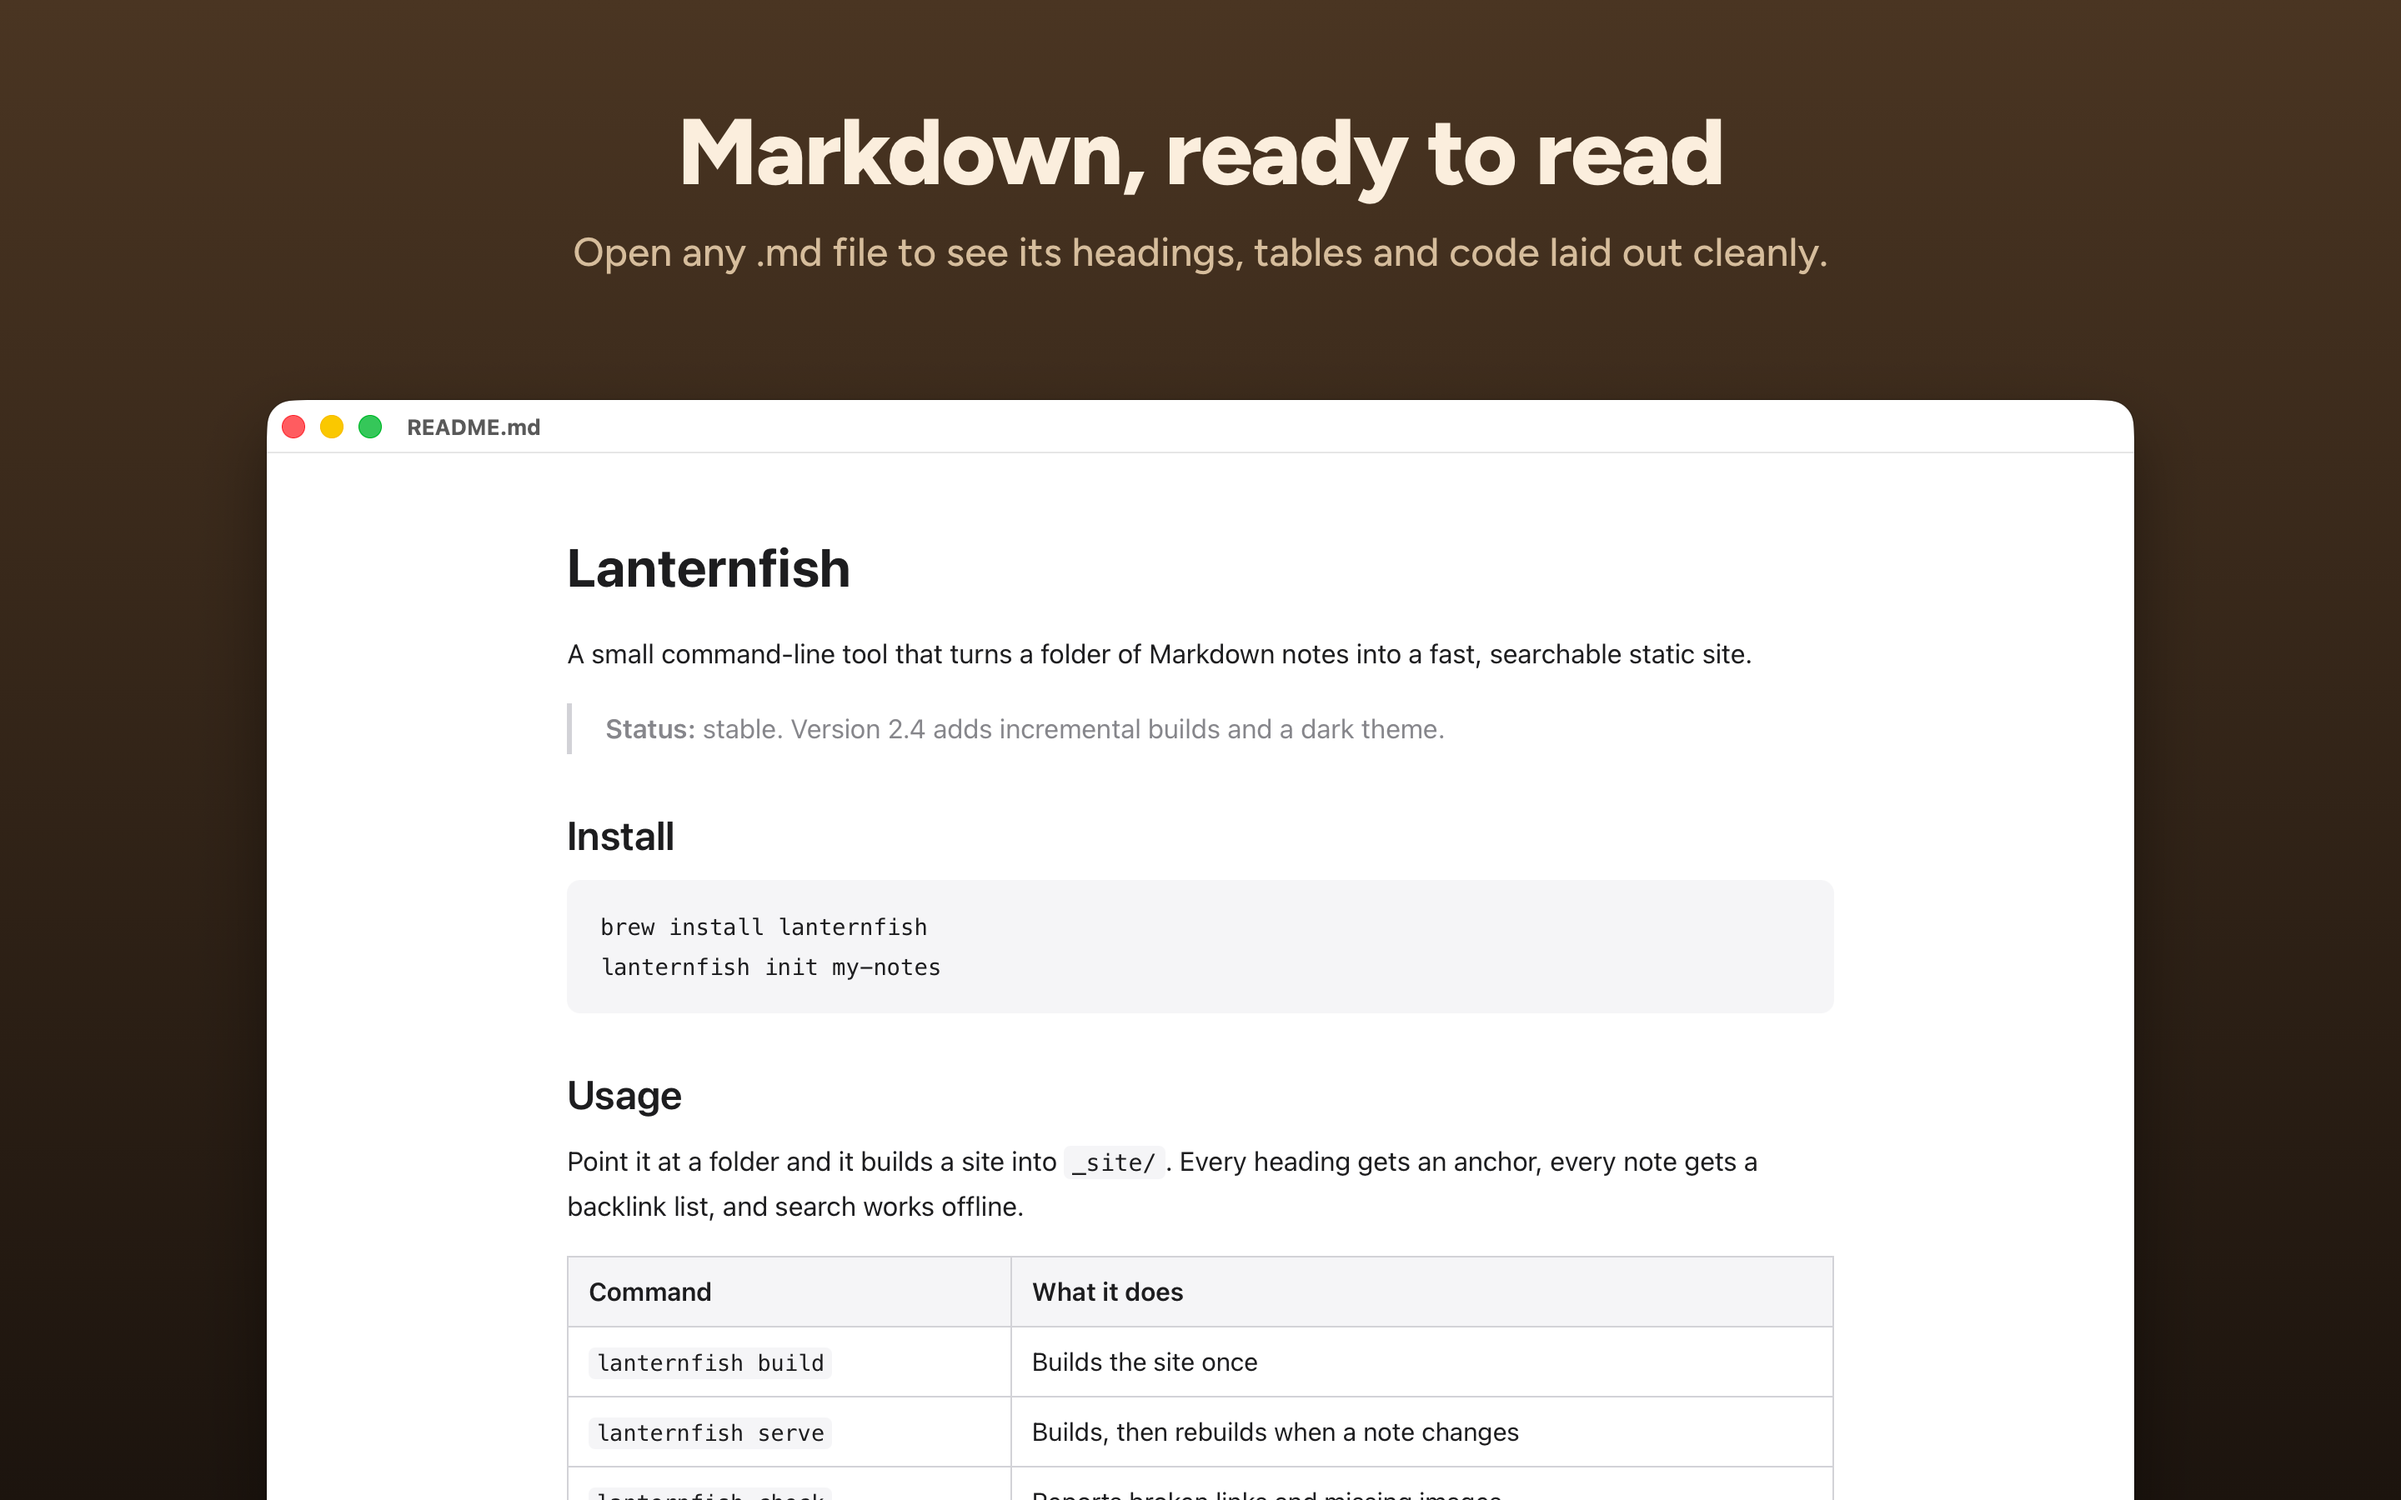
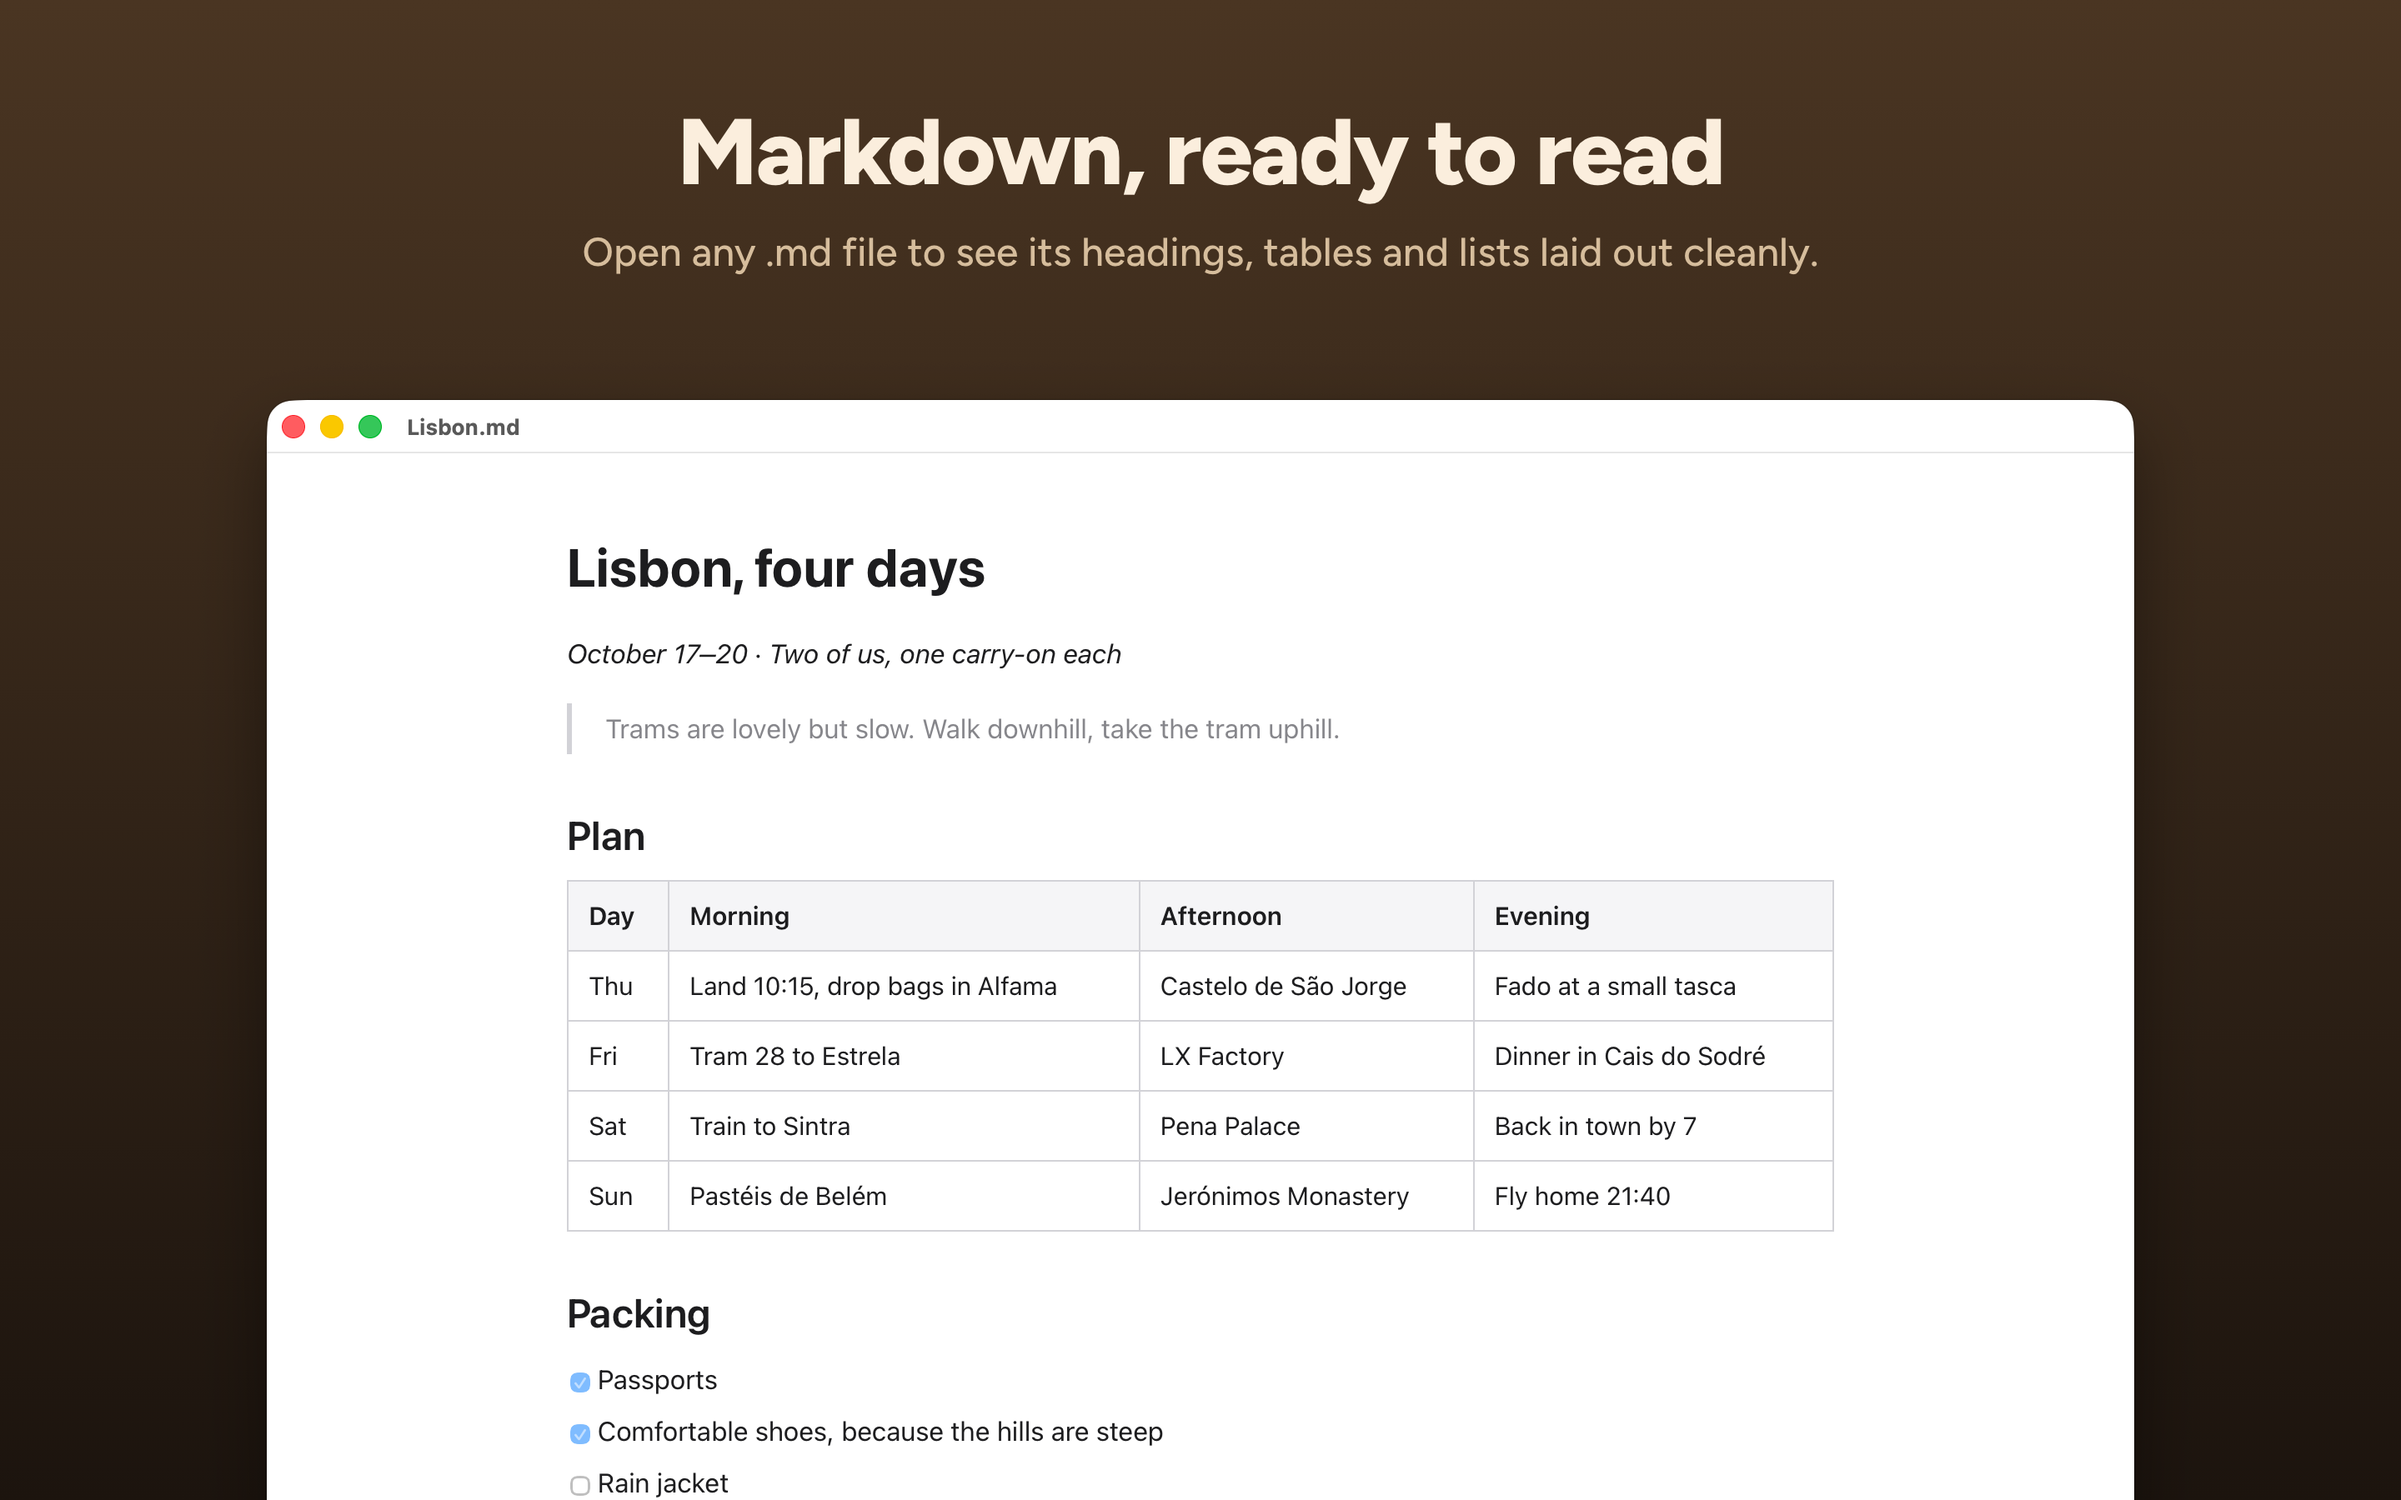
Keep checklist boxes on the same line as their text
The checkbox was written before the item's paragraph, so the text
started on a new line. It now goes inside the first paragraph. Also
replace the README screenshot with one that shows an everyday document
instead of a made-up app's README.

diff --git a/Sources/Shared/HTMLConverter.swift b/Sources/Shared/HTMLConverter.swift
@@ -71,12 +71,21 @@ struct HTMLConverter: MarkupVisitor {
     }
 
     mutating func visitListItem(_ item: ListItem) -> String {
-        let content = item.children.map { visit($0) }.joined()
-        if let checkbox = item.checkbox {
-            let checked = checkbox == .checked ? " checked" : ""
-            return "<li class=\"task-item\"><input type=\"checkbox\"\(checked) disabled>\(content)</li>\n"
+        guard let checkbox = item.checkbox else {
+            return "<li>\(item.children.map { visit($0) }.joined())</li>\n"
         }
-        return "<li>\(content)</li>\n"
+        // The box goes inside the first paragraph so it sits on the same line
+        // as the text; before a <p> it would get a line of its own.
+        let box = "<input type=\"checkbox\"\(checkbox == .checked ? " checked" : "") disabled>"
+        let children = Array(item.children)
+        var content = ""
+        if let first = children.first as? Paragraph {
+            content = "<p>\(box)\(first.children.map { visit($0) }.joined())</p>\n"
+                + children.dropFirst().map { visit($0) }.joined()
+        } else {
+            content = box + children.map { visit($0) }.joined()
+        }
+        return "<li class=\"task-item\">\(content)</li>\n"
     }
 
     mutating func visitThematicBreak(_ thematicBreak: ThematicBreak) -> String {
